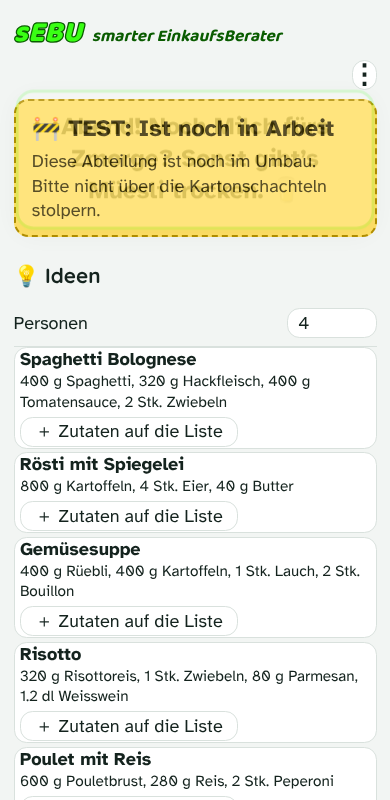
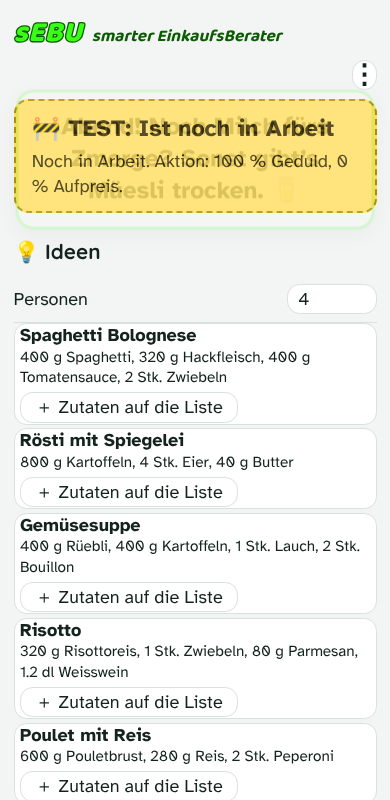
Laden wählen: Feld ohne Standort entfernt
Claude-Session: https://claude.ai/code/session_01D8YzSZq49mBYGwQ71jG7sa

Changed region(s): [[0.0308, 0.1875, 0.9846, 1.0], [0.6462, 0.7812, 0.9231, 0.875]]

diff --git a/index.html b/index.html
@@ -826,7 +826,7 @@ function shStore(){var h='<h2>'+t('Laden wählen')+'</h2><h3 id="newhere" style=
  +'<h3>🔎 '+t('Bestehenden Laden suchen')+'</h3><div class="seg"><input class="field" id="stq" placeholder="'+t('Suchen, z. B. Volg')+'" style="flex:1 1 100%" autocomplete="off"><button class="btn'+(storeAll?' sel':'')+'" data-a="storeall">'+t(storeAll?'Weniger':'Alle anzeigen')+'</button></div><div id="stres" class="'+(storeAll?'all':'')+'">';
  var g={};storeEntries().forEach(function(e){var L=(e.n.charAt(0)||'#').toUpperCase();(g[L]=g[L]||[]).push(e)});
  Object.keys(g).sort(function(a,b){return a.localeCompare(b,'de')}).forEach(function(L){h+='<div class="abc"><b>'+esc(L)+'</b><div class="seg">'+g[L].map(function(e){return'<button class="btn" data-a="storeset" data-n="'+esc(e.n)+'" data-c="'+esc(e.c)+'"'+(e.d!=null?' data-d="'+e.d+'"':'')+'>'+esc(e.n)+(e.d!=null?' · '+e.d+' m':'')+'</button>'}).join('')+'</div></div>'});
- return h+'</div><p class="small mute" id="stnone" style="display:none">'+t('Nichts gefunden. Oben als neuen Laden speichern oder unten ohne Standort eintragen.')+'</p><div class="seg" style="margin-top:.6em"><input class="field" id="stn" placeholder="'+t('Anderer Laden (ohne Standort)')+'" style="flex:1 1 100%"><button class="btn" data-a="storeown">OK</button></div><div class="seg" style="margin-top:.6em"><button class="btn" data-a="shclose">'+t('Schliessen')+'</button></div>'}
+ return h+'</div><p class="small mute" id="stnone" style="display:none">'+t('Nichts gefunden. Oben als neuen Laden speichern.')+'</p><div class="seg" style="margin-top:.6em"><button class="btn" data-a="shclose">'+t('Schliessen')+'</button></div>'}
 function stFilter(v){var q=norm(v||''),box=$('#stres'),any=0;if(!box)return;box.classList.toggle('q',!!q);
  $$('#stres .abc').forEach(function(g){var n=0;g.querySelectorAll('.btn').forEach(function(c){var ok=!q||(' '+norm(c.textContent).replace(/[^a-z0-9äöüéèàç]+/g,' ')).indexOf(' '+q)>-1;c.style.display=ok?'':'none';if(ok)n++});g.style.display=n?'':'none';any+=n});
  var no=$('#stnone');if(no)no.style.display=q&&!any?'':'none'}

diff --git a/CLAUDE.md b/CLAUDE.md
@@ -44,7 +44,7 @@ Besitzer: Rico Schubiger (GitHub `Schubiger-Rico`), Schweiz, Deutsch. Er arbeite
 - Produktfoto: `S.photos[name]` (JPEG max. 480 px, `shrinkPhoto`), Knopf 📸 bei der Eingabe (`.phb`, `draft.photo`) und im Bearbeiten; Foto ersetzt das Symbol (`icHtml`, `photoOf`) in Liste/Favoriten/Letzte/Verlauf, Antippen = Sheet `photo` (gross, ersetzen, entfernen, Kategorie ändern); Kategorie bleibt. Nicht im Teilen enthalten.
 - «Heute noch»: Knopf «Heute nicht» (`S.set.todayHide`=Datum). Erinnerung 🔔: `S.set.remMode` 'next' (Standard: `item.remNext`, Banner `remNextBanner` beim nächsten Einkaufsende) oder 'ios' (Teilen/Kurzbefehl wie früher).
 - Eigene Läden ohne Standort: `noLocStores()` (eingetippte Namen, nicht in `allCh`/`S.mine`), Knopf «📍 Hier bin ich – Standort speichern» (`locsave` → `S.mine`) unter Läden und Einstellungen → Filialen (`#noloc`), Frage beim Öffnen `locBanner` (abschaltbar `S.set.locAsk`, pro Laden `S.set.noLoc`).
-- Standort-Zugriff: automatische Erkennung beim Öffnen nur, wenn Safari den Standort schon erlaubt hat (`geoState`, Permissions API) – sonst keine Frage zu Hause. Knöpfe mit Standort laufen über `needGeo()`: vorher kurze Erklärung (Sheet `geointro`, `S.set.geoAsked`), bei Sperre Hilfe-Sheet `lochelp` mit iPhone-Einstellungen. Sheet `store` («Laden wählen»): zuoberst «＋ Neuer Laden hier» (`storenew`: Name + Standort → `S.mine`, sofort gewählt), dann Suchfeld `#stq` (`stFilter`, alle Läden aus `storeEntries`), Knopf «Alle anzeigen» (`storeAll`) → Liste nach ABC, je Buchstabe eine Zeile (`.abc`); unten «Anderer Laden (ohne Standort)».
+- Standort-Zugriff: automatische Erkennung beim Öffnen nur, wenn Safari den Standort schon erlaubt hat (`geoState`, Permissions API) – sonst keine Frage zu Hause. Knöpfe mit Standort laufen über `needGeo()`: vorher kurze Erklärung (Sheet `geointro`, `S.set.geoAsked`), bei Sperre Hilfe-Sheet `lochelp` mit iPhone-Einstellungen. Sheet `store` («Laden wählen»): zuoberst «＋ Neuer Laden hier» (`storenew`: Name + Standort → `S.mine`, sofort gewählt), dann Suchfeld `#stq` (`stFilter`, alle Läden aus `storeEntries`), Knopf «Alle anzeigen» (`storeAll`) → Liste nach ABC, je Buchstabe eine Zeile (`.abc`).
 - Preise: `S.prices[name]` = [{p,s,d}] (`addPrice`, `lastPrice`); Frage beim Abhaken (`S.set.priceCheck`, Sheet `price`), Feld beim Bearbeiten (`S.set.priceEdit`, `#ep`); Zeile zeigt «💰 2.40 (Coop)»; Schalter `price`.
 - Neu in sEBU: `NEWS`-Liste [id, Symbol, Text, Mini-Führungs-Schritte]; ruhige Zeile oben (`newsBanner`) mit «Ansehen»/✕, Sheet `news` mit «Kurz zeigen» (`tourStart({steps})`); gesehen bis `S.set.newsSeen`; Neue Nutzer sehen alte Neuheiten nicht; abschaltbar `S.set.news`, «Neuheiten ansehen» unter Einführung.
 - Hinweis «nach links wischen» nur bis 3× gewischt (`S.set.swipeN`, Knopf «Wieder anzeigen» unter Darstellung). Letzte Produkte: Anzahl/Sortierung nur in den Einstellungen.

diff --git a/docs/ENTSCHEIDUNGEN.md b/docs/ENTSCHEIDUNGEN.md
@@ -826,3 +826,4 @@ Stand heute: 1 gebaut; 2 teilweise (Aktionen, aber ohne echte Datenquelle); 3 te
 - Präzisiert 26.11.: Keine Einstellung. Reihenfolge im Fenster «Laden wählen»: zuerst «＋ Neuer Laden hier», dann Suchfeld (sucht in allen Läden), dann Knopf «Alle anzeigen» → ganze Liste nach ABC, jeder Buchstabe neue Zeile.
 - **Umgesetzt am 26.11.:** «Laden wählen»: zuoberst «Neuer Laden hier», dann Suchfeld über alle Läden, Knopf «Alle anzeigen» für die Liste nach ABC (jeder Buchstabe eigene Zeile). In Führung und «Neu in sEBU» (n19).
 - 26.11.: «Laden wählen»: Eingabefelder über die ganze Breite, Knöpfe darunter – Platzhalter-Texte sind bei grosser Schrift ganz lesbar.
+- 26.11.: «Anderer Laden (ohne Standort)» aus «Laden wählen» entfernt – «Neuer Laden hier» deckt es ab.
